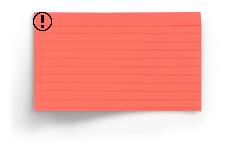
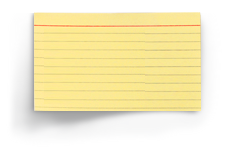
JM: adding pngs and starting to make different cards

diff --git a/client/script.js b/client/script.js
@@ -158,20 +158,22 @@ $(document).bind('keyup', function(event) {
 	keyTrap = event.which;
 });
 
-function drawNewCard(id, text, x, y, rot, colour, sticker, animationspeed)
+function drawNewCard(id, text, x, y, rot, style, sticker)
 {
 	//cards[id] = {id: id, text: text, x: x, y: y, rot: rot, colour: colour};
 
-    //var exp = /(jira\/[-A-Z0-9+&@#\/%?=~_|!:,.;]*[-A-Z0-9+&@#\/%=~_|])/ig;
-    var exp = /([A-Z].\-[0-9]{5})/ig;
-    var linksEnabled = text.replace(exp,"<a href=http://jira/browse/$1>$1</a>");
-    //linksEnabled = linksEnabled.replace("jira","http://jira/browse");
+	var ticketNumberRegex = new RegExp("([A-Z]+-[0-9]+)", 'ig');
+  var linksEnabled = text.replace(ticketNumberRegex,"<a href=http://jira.corp.peer1.net/browse/$1>$1</a>");
 
-	var h = '<div id="' + id + '" class="card ' + colour + ' draggable" style="-webkit-transform:rotate(' + rot + 'deg);">\
+	var cardFileName = style.replace(/^.* /, '') + '-card.png';
+
+	var h = '<div id="' + id + '" class="card ' + style + ' draggable clearfix" style="-webkit-transform:rotate(' + rot + 'deg);">\
 	<img src="/images/icons/token/Xion.png" class="card-icon delete-card-icon" />\
-	<img class="card-image" src="/images/' + colour + '-card.png">\
+	<img class="card-image" src="/images/' + cardFileName + '">\
 	<div id="content:' + id + '" class="content stickertarget droppable">' + linksEnabled + '</div>\
 	</div>';
+
+//	<div style="clear:both"></div>\
 
         var card = $(h);
 	card.appendTo('#board');
@@ -691,6 +693,18 @@ function adjustCard(offsets, doSync) {
 		});
 }
 
+function createUniqueCardWithStyle(styleName) {
+	var rotation = Math.random() * 10 - 5; //add a bit of random rotation (+/- 10deg)
+	uniqueID = Math.round(Math.random()*99999999); //is this big enough to assure uniqueness?
+	//alert(uniqueID);
+	createCard(
+		'card' + uniqueID,
+		'',
+		58, $('div.board-outline').height(),// hack - not a great way to get the new card coordinates, but most consistant ATM
+		rotation,
+		styleName);
+}
+
 //////////////////////////////////////////////////////////
 //////////////////////////////////////////////////////////
 
@@ -704,68 +718,63 @@ $(function() {
 
 	$( "#create-card" )
 		.click(function() {
-			var rotation = Math.random() * 10 - 5; //add a bit of random rotation (+/- 10deg)
-			uniqueID = Math.round(Math.random()*99999999); //is this big enough to assure uniqueness?
-			//alert(uniqueID);
-			createCard( 
-				'card' + uniqueID,
-				'',
-			 	58, $('div.board-outline').height(),// hack - not a great way to get the new card coordinates, but most consistant ATM
-			   rotation,
-			   randomCardColour());
+			createUniqueCardWithStyle(randomCardColour());
 		});
 
     $( "#create-card-story" )
         .click(function() {
-            var rotation = Math.random() * 10 - 5; //add a bit of random rotation (+/- 10deg)
-            uniqueID = Math.round(Math.random()*99999999); //is this big enough to assure uniqueness?
-            //alert(uniqueID);
-            createCard(
-                'card' + uniqueID,
-                '',
-                140, $('div.board-outline').height(),// hack - not a great way to get the new card coordinates, but most consistant ATM
-                rotation,
-                'green');
+            createUniqueCardWithStyle('green');
         });
 
     $( "#create-card-task" )
         .click(function() {
-            var rotation = Math.random() * 10 - 5; //add a bit of random rotation (+/- 10deg)
-            uniqueID = Math.round(Math.random()*99999999); //is this big enough to assure uniqueness?
-            //alert(uniqueID);
-            createCard(
-                'card' + uniqueID,
-                '',
-                140, $('div.board-outline').height(),// hack - not a great way to get the new card coordinates, but most consistant ATM
-                rotation,
-                'blue');
+						createUniqueCardWithStyle('blue');
         });
 
     $( "#create-card-spike" )
         .click(function() {
-            var rotation = Math.random() * 10 - 5; //add a bit of random rotation (+/- 10deg)
-            uniqueID = Math.round(Math.random()*99999999); //is this big enough to assure uniqueness?
-            //alert(uniqueID);
-            createCard(
-                'card' + uniqueID,
-                '',
-                140, $('div.board-outline').height(),// hack - not a great way to get the new card coordinates, but most consistant ATM
-                rotation,
-                'white');
+						createUniqueCardWithStyle('white');
         });
 
     $( "#create-card-bug" )
         .click(function() {
-            var rotation = Math.random() * 10 - 5; //add a bit of random rotation (+/- 10deg)
-            uniqueID = Math.round(Math.random()*99999999); //is this big enough to assure uniqueness?
-            //alert(uniqueID);
-            createCard(
-                'card' + uniqueID,
-                '',
-                140, $('div.board-outline').height(),// hack - not a great way to get the new card coordinates, but most consistant ATM
-                rotation,
-                'yellow');
+						createUniqueCardWithStyle('red');
         });
+
+		$( "#create-card-general" )
+			.click(function() {
+						createUniqueCardWithStyle('yellow');
+			});
+
+			$( "#create-card-story-small" )
+				.click(function() {
+					createUniqueCardWithStyle('small green');
+				});
+
+			$( "#create-card-task-small" )
+				.click(function() {
+					createUniqueCardWithStyle('small blue');
+				});
+
+			$( "#create-card-spike-small" )
+				.click(function() {
+					createUniqueCardWithStyle('small white');
+				});
+
+			$( "#create-card-bug-small" )
+				.click(function() {
+					createUniqueCardWithStyle('small red');
+				});
+
+			$( "#create-card-general-small" )
+				.click(function() {
+					createUniqueCardWithStyle('small yellow');
+				});
+
+			$( "#create-card-postit" )
+				.click(function() {
+					createUniqueCardWithStyle('postit');
+				});
 
 	// Style changer
 	$("#smallify").click(function(){

diff --git a/client/css/bigcards.css b/client/css/bigcards.css
@@ -1,11 +1,9 @@
-.card { 
+.card {
 	width: 230px;
 	height: 152px;
 	xpadding: 5px; float: left;
 	xmargin: 0 10px 10px 0;
 	font-size: .9em;
-	
-
 
 	overflow: hidden;
 	
@@ -30,6 +28,16 @@
 .green {
 }
 
+.postit {
+    width: 115px;
+    height: 76px;
+}
+
+.small {
+    width: 180px;
+    height: 102px;
+}
+
 .card-image {
 	position: absolute;
 	xtop: -10;
@@ -43,13 +51,13 @@
 .content { 
 	overflow: hidden;
 	display: block;
-	width: 158px; 
+	width: 158px;
 	height: 88px;
 	margin: 5px 23px 0px 34px;
-	
+
 	font-family: 'Covered By Your Grace',"Arial Rounded MT Bold", arial, serif;
 	font-size: 18px;
-	letter-spacing: 0px;	
+	letter-spacing: 0px;
 	
 	xtext-shadow: 0px 0px 1px #444;
 	
@@ -66,4 +74,18 @@
 
 .stickertarget {
 	position: absolute;
+}
+
+.postit>.content {
+    width: 85px;
+    height: 50px;
+    margin: 5px 3px 5px 10px;
+}
+
+.small>.content {
+    width: 108px;
+    height: 50px;
+    margin: 5px 3px 20px 30px;
+    font-size: 15px;
+
 }

diff --git a/client/css/smallcards.css b/client/css/smallcards.css
@@ -4,8 +4,6 @@
 	xpadding: 5px; float: left;
 	xmargin: 0 10px 10px 0;
 	font-size: .9em;
-	
-
 
 	overflow: hidden;
 	
@@ -29,6 +27,16 @@
 }
 
 .green {
+}
+
+.postit {
+    width: 76px;
+    height: 40px;
+}
+
+.small {
+    width: 115px;
+    height: 76px;
 }
 
 .card-image {
@@ -82,4 +90,18 @@
 	color: #333;
 	text-align: center;
 	padding-top: 8px;
+}
+
+.postit>.content {
+    width: 56px;
+    height: 25px;
+    margin: 5px 3px 5px 10px;
+}
+
+.small>.content {
+    width: 78px;
+    height: 25px;
+    margin: 5px 3px 20px 30px;
+    font-size: 15px;
+
 }
